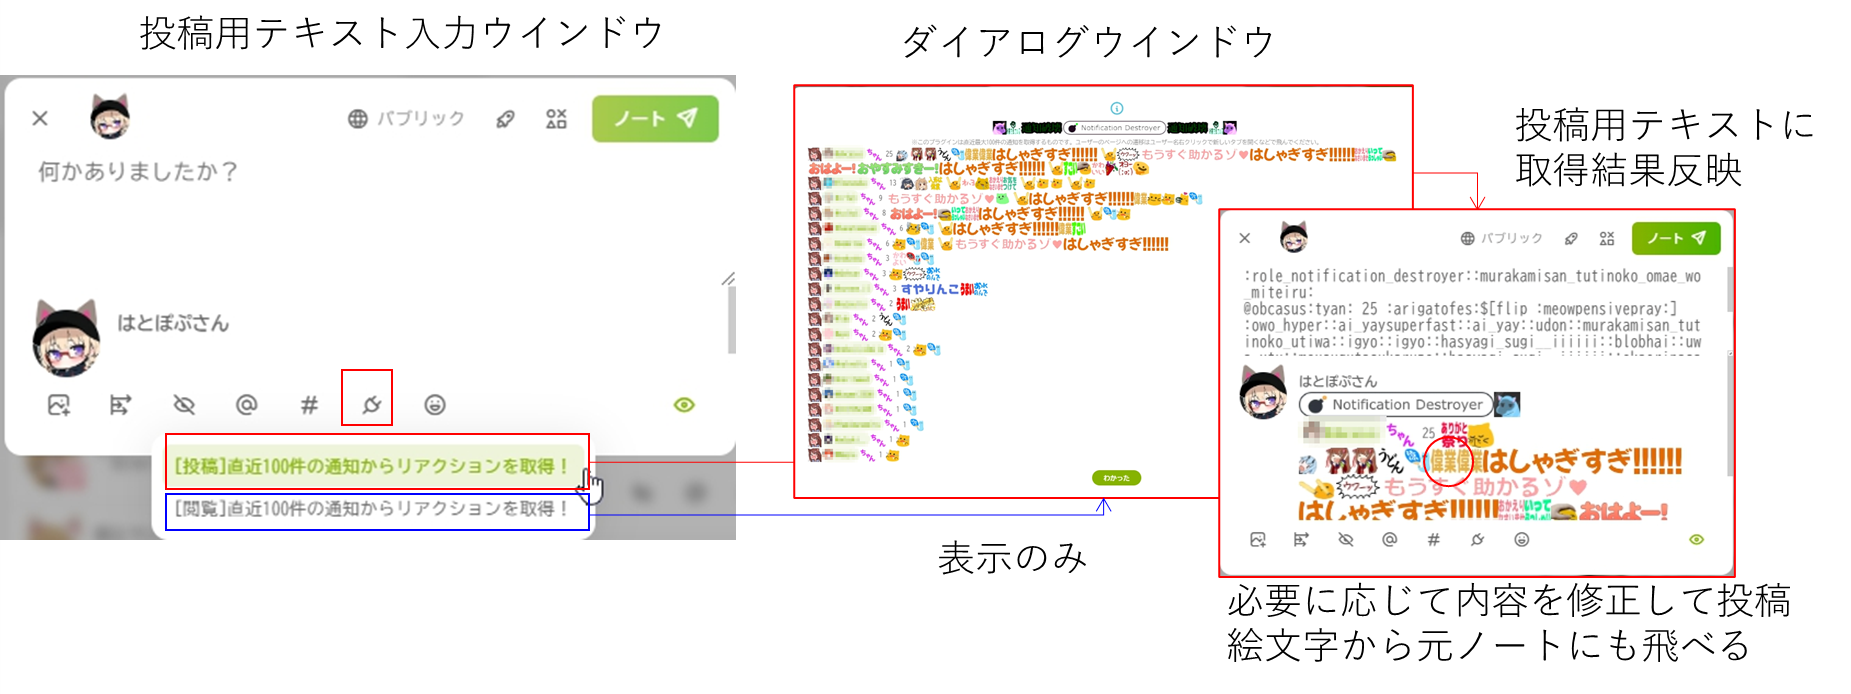
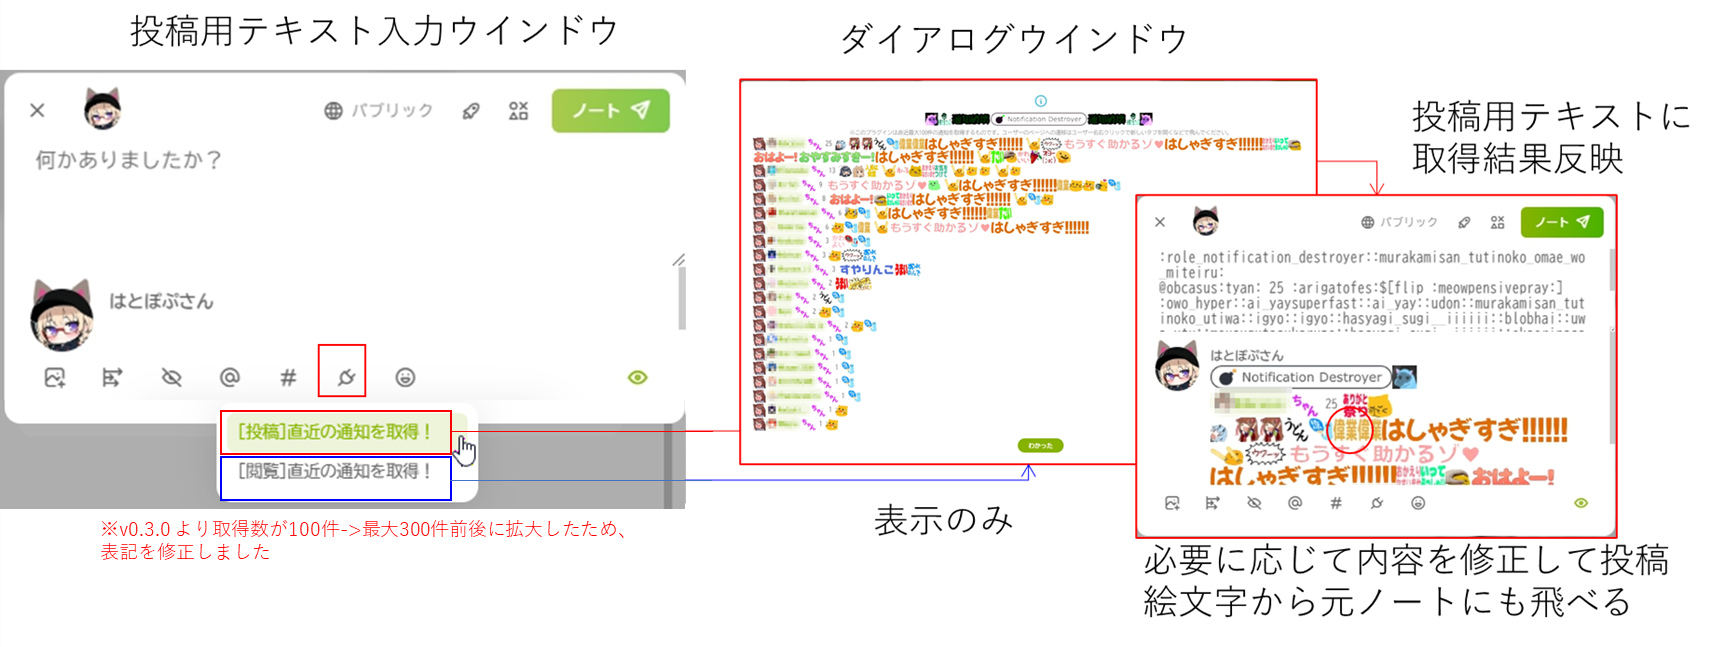
v0.3.0に伴うreadme修正

Changed region(s): [[0.0, 0.6182, 0.3994, 0.8655]]

diff --git a/README.md b/README.md
@@ -49,6 +49,8 @@ max-widthとtext-alignを以下のように修正して適用してください(
 
 ### 投稿用テキストのパラメータ
 ![images](images/image_105.png)
+(↓ v0.3.0で追加)
+![images](images/image_108.png)
 
 ## 作者
 [hatopop_vr](https://misskey.io/@hatopop_vr)
